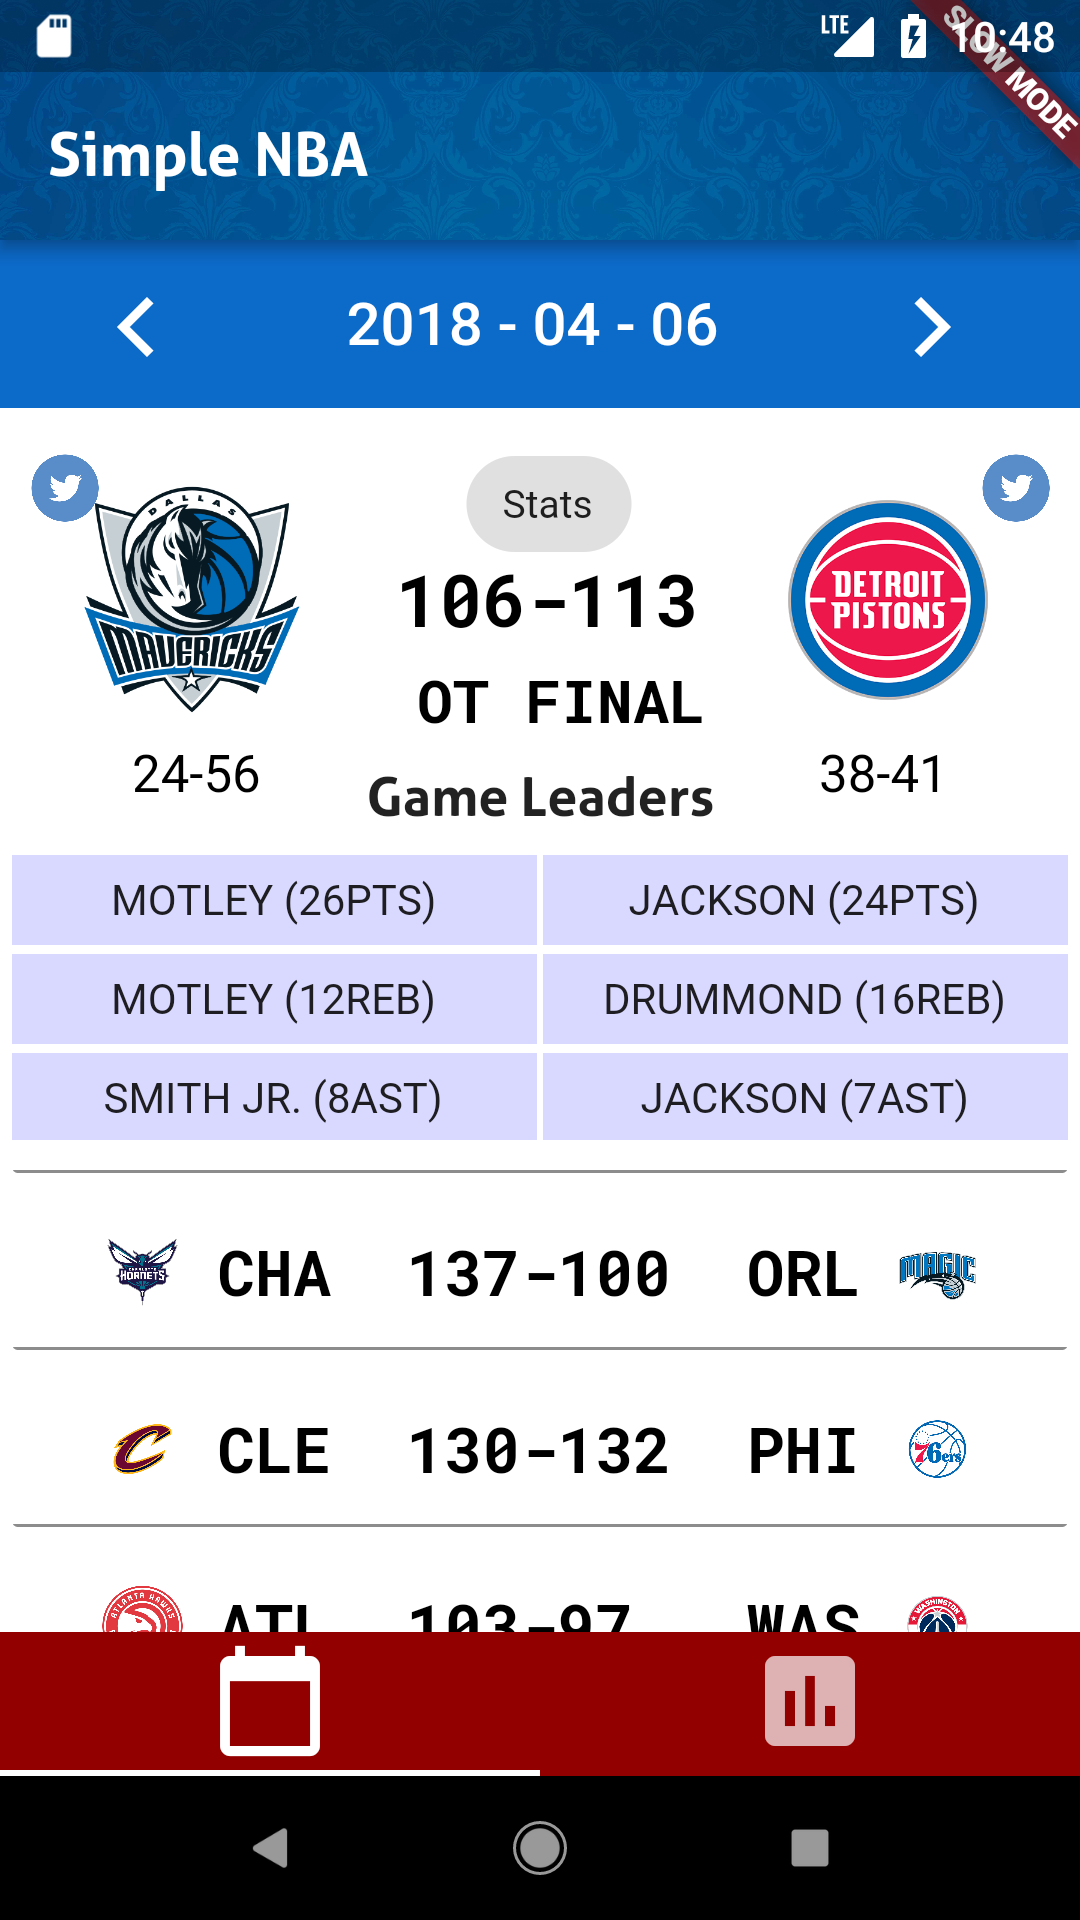
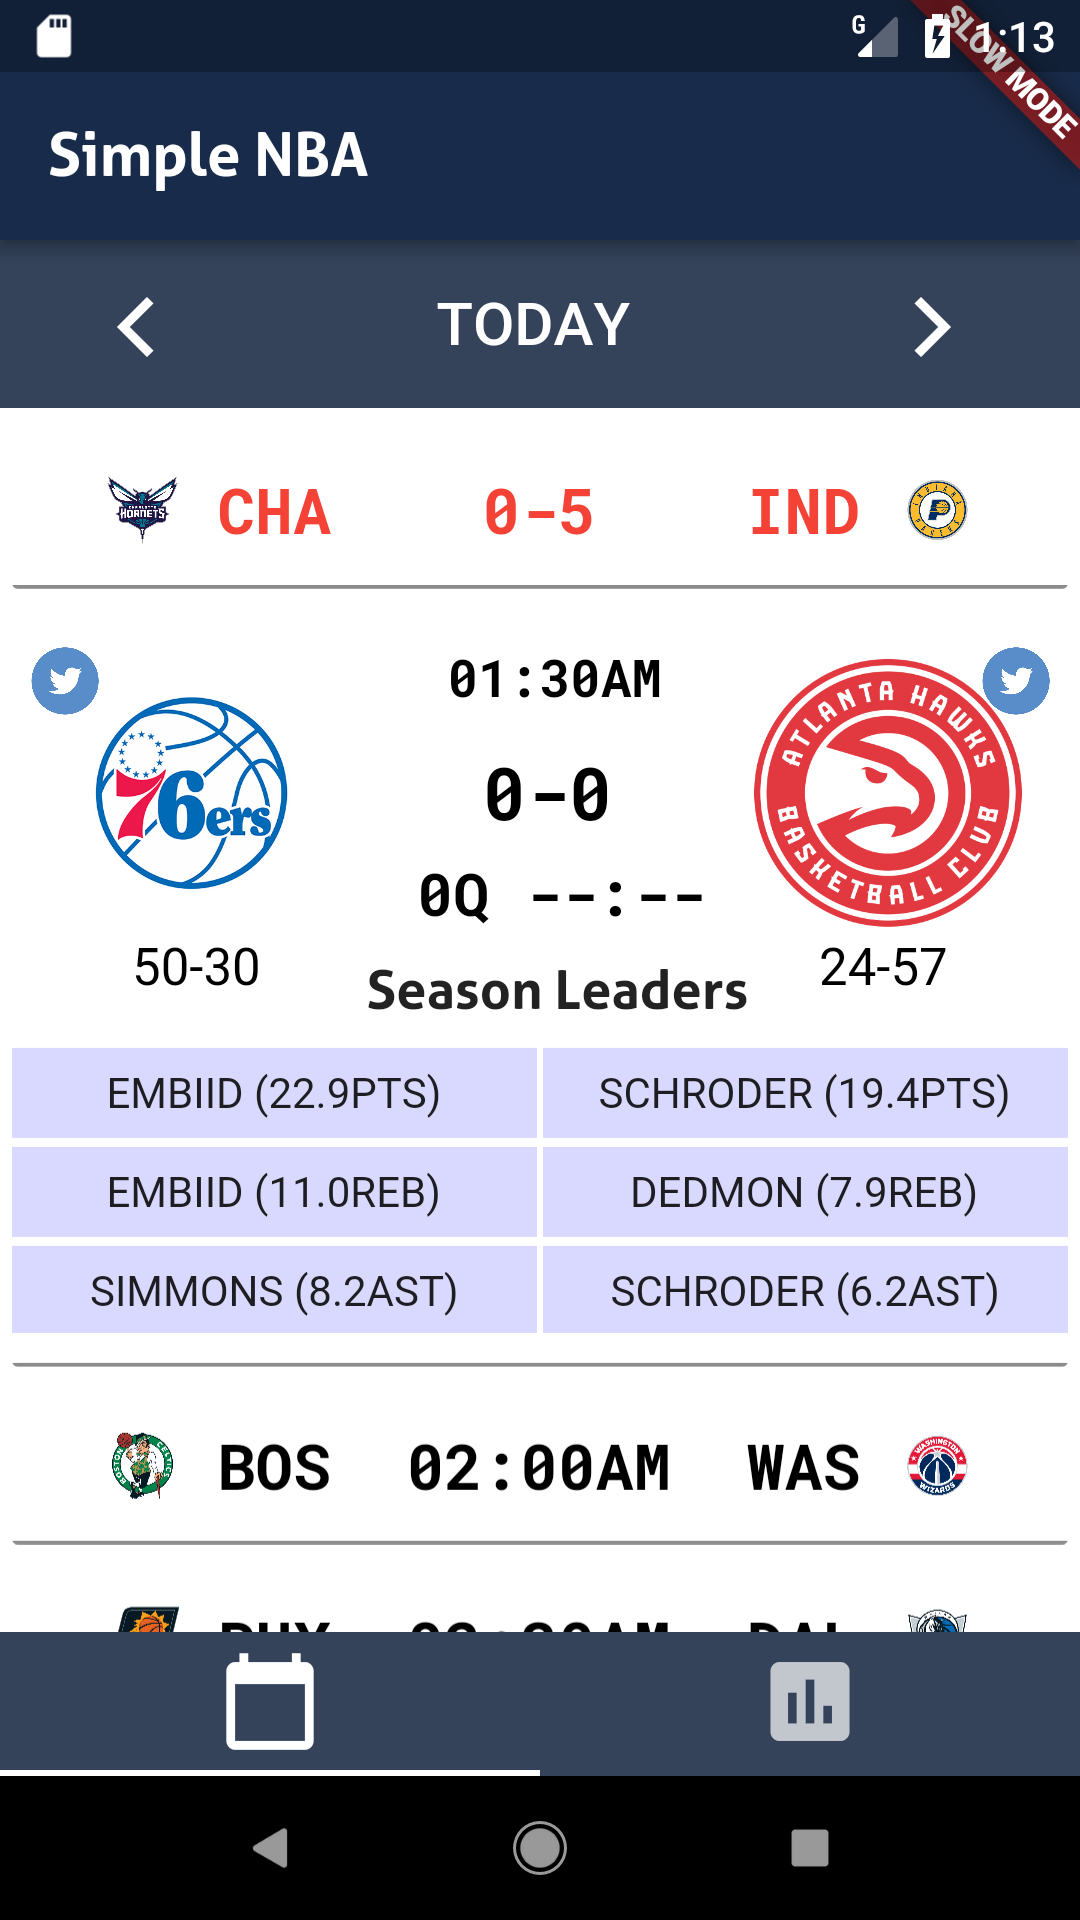
Change design and screenshots

diff --git a/lib/main.dart b/lib/main.dart
@@ -78,10 +78,8 @@ class MainFrameState extends State<MainFrame>
     return new Scaffold(
       appBar: new AppBar(
         flexibleSpace: new Container(
-            decoration: new BoxDecoration(
-                image: new DecorationImage(
-                    image: new AssetImage("assets/header.jpg"),
-                    fit: BoxFit.fitWidth))),
+            color: new Color.fromARGB(0xff, 0x18, 0x2b, 0x4a),
+                ),
         title: new Title(
             color: Colors.white,
             child: new Text("Simple NBA",
@@ -111,10 +109,10 @@ class MainFrameState extends State<MainFrame>
       bottomNavigationBar: new Material(
           child: new Container(
         child: new TabBar(tabs: <Tab>[
-          new Tab(icon: new Icon(Icons.calendar_today, size: 40.0)),
-          new Tab(icon: new Icon(Icons.assessment, size: 40.0))
+          new Tab(child: new Icon(Icons.calendar_today, size: 35.0)),
+          new Tab(icon: new Icon(Icons.assessment, size: 35.0))
         ], controller: _mainNavigationController),
-        color: new Color.fromRGBO(147, 0, 0, 1.0),
+            color: new Color(0xff34435a),
       )),
       body: new TabBarView(
         children: <Widget>[
@@ -169,12 +167,11 @@ class StandingsWidgetViewState extends State<StandingsWidgetView>
         child: new Scaffold(
           appBar: new AppBar(
               title: new TabBar(tabs: <Tab>[
-                new Tab(child: new Text("EAST", style: new TextStyle(fontFamily: 'Signika', fontSize: 22.0))),
-                new Tab(child: new Text("WEST", style: new TextStyle(fontFamily: 'Signika', fontSize: 22.0)))
+                new Tab(child: new Text("EAST", style: new TextStyle(fontFamily: 'Signika', fontSize: 17.0))),
+                new Tab(child: new Text("WEST", style: new TextStyle(fontFamily: 'Signika', fontSize: 17.0)))
               ]),
-              flexibleSpace: new Container(color: Colors.white, height: 0.15),
               elevation: 0.0,
-              backgroundColor: new Color.fromRGBO(12, 106, 201, 1.0)),
+              backgroundColor:new Color(0xff34435a)),
           body: new TabBarView(children: widget.standings),
         ));
   }
@@ -244,18 +241,21 @@ class CalendarTabState extends State<CalendarTab> {
             ),
           ),
           elevation: 0.0,
-          backgroundColor: new Color.fromRGBO(12, 106, 201, 1.0),
+          backgroundColor: new Color(0xff34435a),
         ),
         body: new Container(
           child: new RefreshIndicator(
               child: (_games.isNotEmpty)
-                  ? new ListView(
+                  ? new Container(
+                child: new ListView(
                       children:
-                          _games.map((game) => new GameCard(game)).toList())
+                          _games.map((game) => new GameCard(game)).toList()),
+              margin: new EdgeInsets.only(top: 5.0),
+              )
                   : new Center(
                       child: new Text("No games scheduled",
                           style: new TextStyle(
-                              fontFamily: "Default", fontSize: 20.0))),
+                              fontFamily: "Default", fontSize: 20.0, color: Colors.black))),
               onRefresh: () async {
                 List<Game> newContent = await loadGames(_startGameDate);
                 this.setState(() {

diff --git a/lib/match_card.dart b/lib/match_card.dart
@@ -71,8 +71,10 @@ class TapCard extends State<GameCard> {
               decoration: new BoxDecoration(
                   border: new Border(
                       bottom:
-                          new BorderSide(width: 1.0, color: Colors.black45)))),
+                          new BorderSide(width: 1.3, color: Colors.black45))),
+          ),
           elevation: 0.0,
+          color: new Color(0xffffffff),
         ));
   }
 
